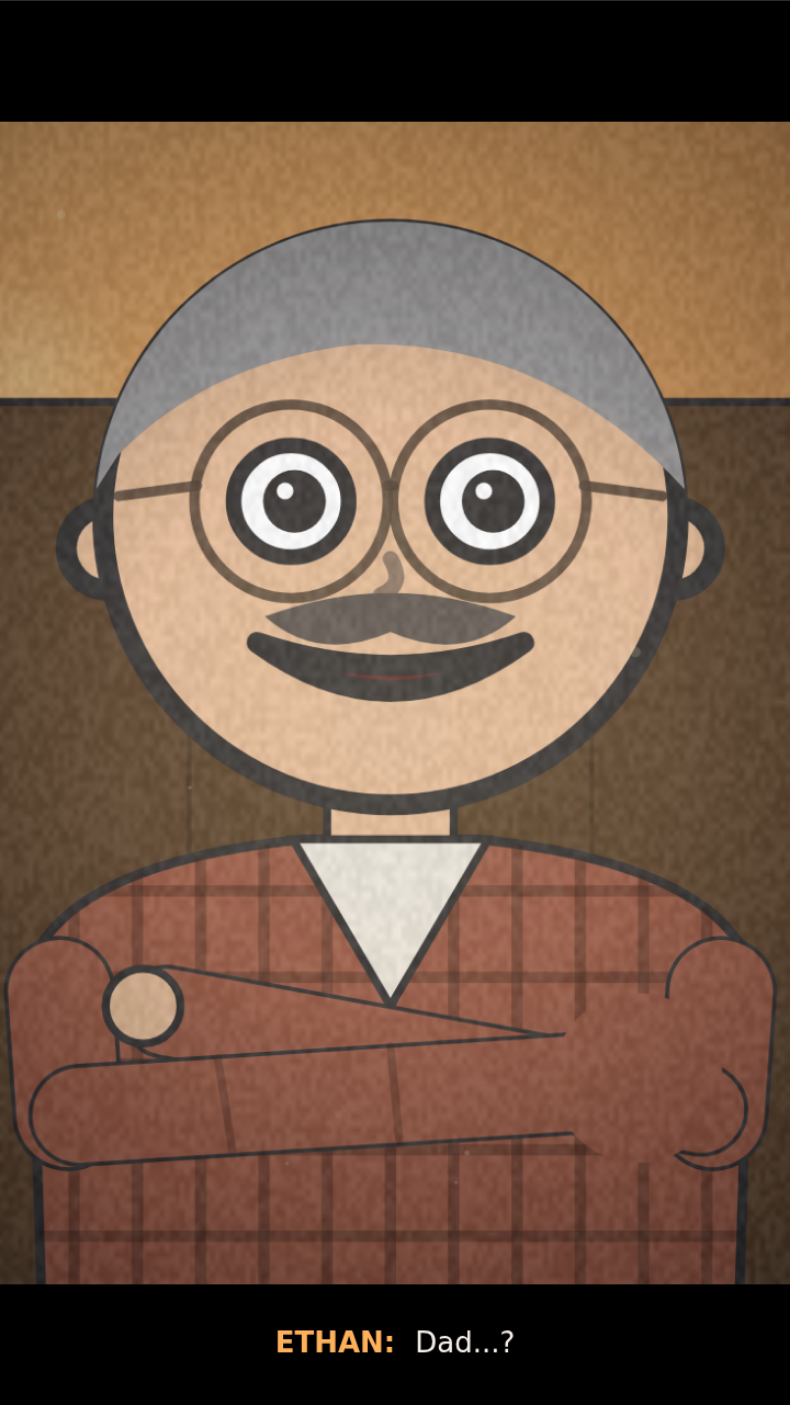
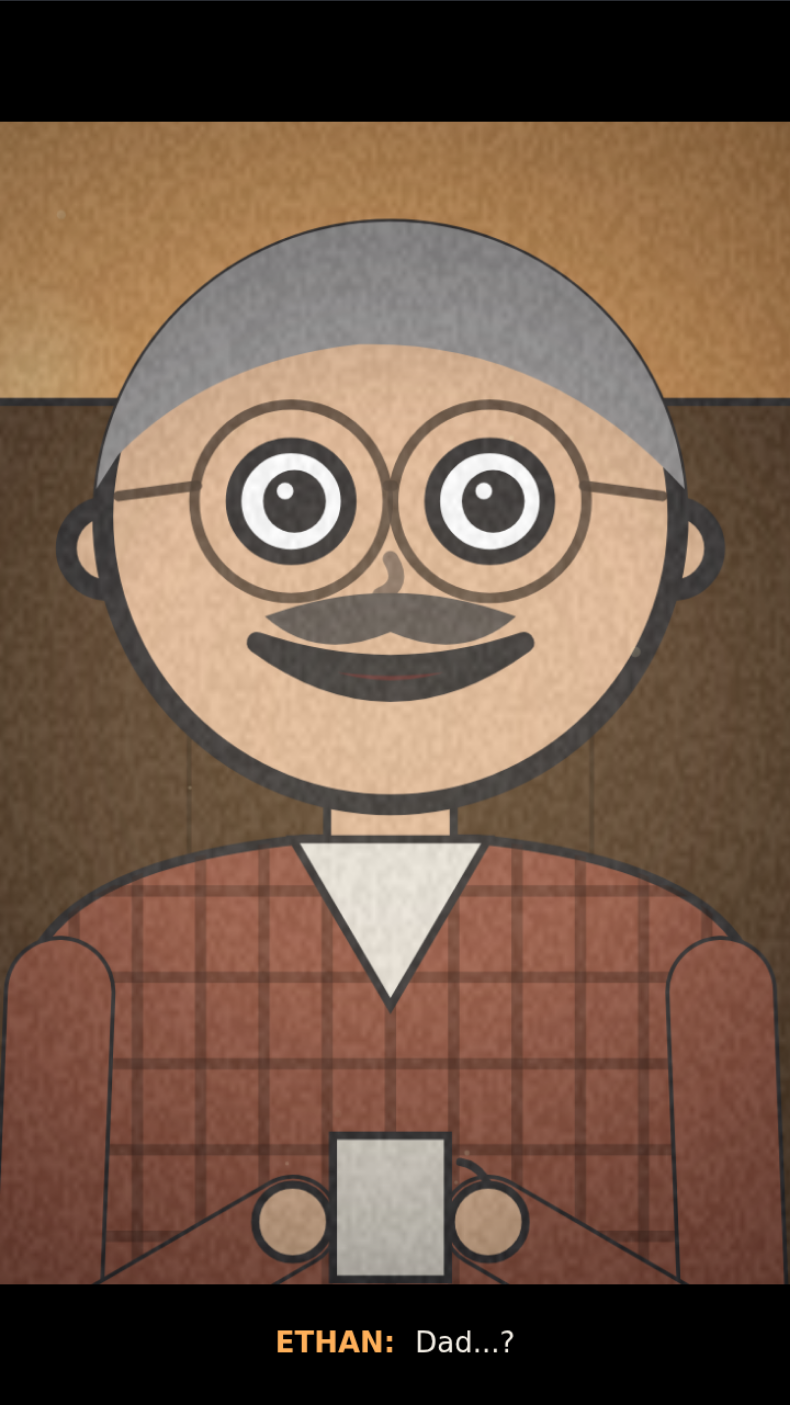
Scene 1: restore Dad's original poses from the shared version
No folded arms: arms at his sides on the porch and the original close-up
arms (holding the mug) as in the file the user shared.

Claude-Session: https://claude.ai/code/session_01TKrh3DwfzpJfkwHqgcgBCE

Changed region(s): [[0.0, 0.6733, 1.0, 0.9181]]

diff --git a/false-awakening-scene1-short.html b/false-awakening-scene1-short.html
@@ -156,11 +156,10 @@ function person(x,gy,k,o){
   const sh=[neck[0],neck[1]+16*k],shl=[sh[0]-19*k,sh[1]],shr=[sh[0]+19*k,sh[1]];
   const sw=o.run?.95:.6,a=Math.sin(ph);
   const armA=(S,sd,front)=>{
-    if(o.pose==='fold'){limbH(S,sd*.42,46*k,-sd*1.75,40*k,dir,16*k,14*k,o.top,'hand',k,sk)}
-    else if(o.pose==='stir'){const s2=Math.sin(o.st||0)*.12;limbH(S,sd*.5,40*k,sd*.5+1.0+s2,38*k,dir,16*k,14*k,o.top,'hand',k,sk)}
+    if(o.pose==='stir'){const s2=Math.sin(o.st||0)*.12;limbH(S,sd*.5,40*k,sd*.5+1.0+s2,38*k,dir,16*k,14*k,o.top,'hand',k,sk)}
     else if(o.moving){const q=a*(o.run?1.1:.7)*sd;limbH(S,q,46*k,q+(o.run?1.3:.5),44*k,dir,16*k,14*k,o.top,'hand',k,sk)}
     else limbH(S,sd*.12,46*k,sd*.08,44*k,dir,16*k,14*k,o.top,'hand',k,sk)};
-  armA(shl,-1);if(o.pose==='fold')armA(shr,1);
+  armA(shl,-1);
   if(o.skirt){
     ctx.beginPath();ctx.moveTo(hip[0]-24*k,hip[1]-8*k);ctx.lineTo(hip[0]+24*k,hip[1]-8*k);ctx.lineTo(hip[0]+44*k,gy-8*k);ctx.lineTo(hip[0]-44*k,gy-8*k);ctx.closePath();
     ctx.fillStyle=o.bottom;ctx.fill();ctx.strokeStyle=INK;ctx.lineWidth=4;ctx.stroke();
@@ -177,7 +176,7 @@ function person(x,gy,k,o){
   ctx.quadraticCurveTo(shl[0]-8*k,(sh[1]+hip[1])/2,shl[0]-6*k,sh[1]-6*k);ctx.closePath();
   ctx.fillStyle=o.top;ctx.fill();ctx.strokeStyle=INK;ctx.lineWidth=4;ctx.stroke();
   if(o.skirt&&o.back){ctx.fillStyle=o.bottom;ctx.beginPath();ctx.moveTo(shl[0]-6*k,sh[1]-4*k);ctx.lineTo(shl[0]+14*k,sh[1]-4*k);ctx.lineTo(hip[0]+26*k,hem+8*k);ctx.lineTo(hip[0]+4*k,hem+8*k);ctx.closePath();ctx.fill();ctx.stroke()}
-  if(o.pose!=='fold')armA(shr,1);
+  armA(shr,1);
   cap([neck[0],neck[1]-4*k],[neck[0],sh[1]],15*k,sk);
   if(o.back)headBack(neck[0],neck[1]-R-2,R,o.c);
   else faceAt(neck[0],neck[1]-R-2,R,o.expr||EN,o.look||[dir*.6,0],o.blink==null?1:o.blink,o.c);
@@ -268,7 +267,7 @@ function veranda(tt){
   ctx.fillStyle='#3a2616';ctx.fillRect(470,520,150,14);ctx.fillRect(530,534,10,70);
   [500,585].forEach(x=>{ctx.fillStyle='#e9d9b8';ctx.fillRect(x-14,490,28,30);ctx.fillStyle='rgba(255,255,255,.35)';for(let i=0;i<4;i++){ctx.beginPath();ctx.arc(x+Math.sin(tt*1.5+i)*5,482-i*14-(tt*10%14),6,0,7);ctx.fill()}});
   /* dad standing, back to us, facing the sunset (away from Ethan) */
-  person(900,600,1.0,{c:DAD,top:'#8f4a3a',bottom:'#3a4250',back:1,dir:1,pose:'fold'});
+  person(900,600,1.0,{c:DAD,top:'#8f4a3a',bottom:'#3a4250',back:1,dir:1});
   ctx.restore();
   /* Ethan's shoulder in the foreground, soft */
   withBlur(6,()=>{ctx.fillStyle='#20161a';ctx.beginPath();ctx.moveTo(-40,H);ctx.lineTo(-40,420);ctx.quadraticCurveTo(160,380,330,520);ctx.lineTo(380,H);ctx.closePath();ctx.fill()});
@@ -290,16 +289,13 @@ function dadClose(tt){
   ctx.save();ctx.clip();ctx.strokeStyle='rgba(30,10,10,.35)';ctx.lineWidth=7;for(let i=-6;i<=6;i++){ctx.beginPath();ctx.moveTo(fx+i*R*.22,sy-R*.3);ctx.lineTo(fx+i*R*.22,H+80);ctx.stroke()}for(let i=0;i<8;i++){ctx.beginPath();ctx.moveTo(fx-R*1.4,sy+i*R*.3);ctx.lineTo(fx+R*1.4,sy+i*R*.3);ctx.stroke()}ctx.restore();
   ctx.fillStyle=SK_D;ctx.fillRect(fx-R*.22,fy+R*.8,R*.44,R*.5);ctx.strokeStyle=INK;ctx.lineWidth=5;ctx.strokeRect(fx-R*.22,fy+R*.8,R*.44,R*.5);
   ctx.fillStyle='#e8e2d6';ctx.beginPath();ctx.moveTo(fx-R*.34,sy-R*.18);ctx.lineTo(fx,sy+R*.4);ctx.lineTo(fx+R*.34,sy-R*.18);ctx.closePath();ctx.fill();ctx.stroke();
-  /* arms folded across his chest */
-  const ay=sy+R*.78;
-  cap([fx-R*1.15,sy+R*.35],[fx-R*1.12,ay],R*.36,FL2);cap([fx+R*1.15,sy+R*.35],[fx+R*1.12,ay],R*.36,FL2);
-  /* back forearm (right elbow to left side), hand tucked by the left arm */
-  cap([fx+R*1.08,ay-R*.02],[fx-R*.78,ay-R*.36],R*.3,FL2);
-  ctx.fillStyle=SK_D;ctx.strokeStyle=INK;ctx.lineWidth=5;ctx.beginPath();ctx.arc(fx-R*.86,ay-R*.38,R*.13,0,7);ctx.fill();ctx.stroke();
-  /* front forearm (left elbow to right side) */
-  cap([fx-R*1.08,ay],[fx+R*.78,ay-R*.12],R*.33,FL2);
-  ctx.save();ctx.strokeStyle='rgba(30,10,10,.3)';ctx.lineWidth=5;ctx.beginPath();ctx.moveTo(fx-R*.6,ay-R*.2);ctx.lineTo(fx-R*.55,ay+R*.12);ctx.moveTo(fx,ay-R*.24);ctx.lineTo(fx+R*.03,ay+R*.08);ctx.stroke();ctx.restore();
-  ctx.fillStyle=SK_D;ctx.beginPath();ctx.arc(fx+R*.86,ay-R*.13,R*.13,0,7);ctx.fill();ctx.stroke();
+  /* arms holding a coffee mug */
+  const hy=sy+R*1.15;
+  cap([fx-R*1.15,sy+R*.35],[fx-R*1.2,hy+R*.5],R*.36,FL2);cap([fx+R*1.15,sy+R*.35],[fx+R*1.2,hy+R*.5],R*.36,FL2);
+  cap([fx-R*1.2,hy+R*.5],[fx-R*.34,hy],R*.3,FL2);cap([fx+R*1.2,hy+R*.5],[fx+R*.34,hy],R*.3,FL2);
+  ctx.fillStyle='#e8e2d6';ctx.strokeStyle=INK;ctx.lineWidth=5;ctx.fillRect(fx-R*.2,hy-R*.3,R*.4,R*.5);ctx.strokeRect(fx-R*.2,hy-R*.3,R*.4,R*.5);
+  ctx.beginPath();ctx.arc(fx+R*.22,hy-R*.08,R*.13,-1.4,1.4);ctx.stroke();
+  ctx.fillStyle=SK_D;[[-.34],[.34]].forEach(p=>{ctx.beginPath();ctx.arc(fx+p[0]*R,hy,R*.13,0,7);ctx.fill();ctx.stroke()});
   const e=tt<24.2?EWARM:mixE(EWARM,EFADE,sm(24.2,26.4,tt));
   const blink=(tt%3.6<.14)?.1:1;
   const ghost=sm(26.4,28.2,tt);

diff --git a/false-awakening-scene1.html b/false-awakening-scene1.html
@@ -155,11 +155,10 @@ function person(x,gy,k,o){
   const sh=[neck[0],neck[1]+16*k],shl=[sh[0]-19*k,sh[1]],shr=[sh[0]+19*k,sh[1]];
   const sw=o.run?.95:.6,a=Math.sin(ph);
   const armA=(S,sd,front)=>{
-    if(o.pose==='fold'){limbH(S,sd*.42,46*k,-sd*1.75,40*k,dir,16*k,14*k,o.top,'hand',k,sk)}
-    else if(o.pose==='stir'){const s2=Math.sin(o.st||0)*.12;limbH(S,sd*.5,40*k,sd*.5+1.0+s2,38*k,dir,16*k,14*k,o.top,'hand',k,sk)}
+    if(o.pose==='stir'){const s2=Math.sin(o.st||0)*.12;limbH(S,sd*.5,40*k,sd*.5+1.0+s2,38*k,dir,16*k,14*k,o.top,'hand',k,sk)}
     else if(o.moving){const q=a*(o.run?1.1:.7)*sd;limbH(S,q,46*k,q+(o.run?1.3:.5),44*k,dir,16*k,14*k,o.top,'hand',k,sk)}
     else limbH(S,sd*.12,46*k,sd*.08,44*k,dir,16*k,14*k,o.top,'hand',k,sk)};
-  armA(shl,-1);if(o.pose==='fold')armA(shr,1);
+  armA(shl,-1);
   if(o.skirt){
     ctx.beginPath();ctx.moveTo(hip[0]-24*k,hip[1]-8*k);ctx.lineTo(hip[0]+24*k,hip[1]-8*k);ctx.lineTo(hip[0]+44*k,gy-8*k);ctx.lineTo(hip[0]-44*k,gy-8*k);ctx.closePath();
     ctx.fillStyle=o.bottom;ctx.fill();ctx.strokeStyle=INK;ctx.lineWidth=4;ctx.stroke();
@@ -176,7 +175,7 @@ function person(x,gy,k,o){
   ctx.quadraticCurveTo(shl[0]-8*k,(sh[1]+hip[1])/2,shl[0]-6*k,sh[1]-6*k);ctx.closePath();
   ctx.fillStyle=o.top;ctx.fill();ctx.strokeStyle=INK;ctx.lineWidth=4;ctx.stroke();
   if(o.skirt&&o.back){ctx.fillStyle=o.bottom;ctx.beginPath();ctx.moveTo(shl[0]-6*k,sh[1]-4*k);ctx.lineTo(shl[0]+14*k,sh[1]-4*k);ctx.lineTo(hip[0]+26*k,hem+8*k);ctx.lineTo(hip[0]+4*k,hem+8*k);ctx.closePath();ctx.fill();ctx.stroke()}
-  if(o.pose!=='fold')armA(shr,1);
+  armA(shr,1);
   cap([neck[0],neck[1]-4*k],[neck[0],sh[1]],15*k,sk);
   if(o.back)headBack(neck[0],neck[1]-R-2,R,o.c);
   else faceAt(neck[0],neck[1]-R-2,R,o.expr||EN,o.look||[dir*.6,0],o.blink==null?1:o.blink,o.c);
@@ -267,7 +266,7 @@ function veranda(tt){
   ctx.fillStyle='#3a2616';ctx.fillRect(470,520,150,14);ctx.fillRect(530,534,10,70);
   [500,585].forEach(x=>{ctx.fillStyle='#e9d9b8';ctx.fillRect(x-14,490,28,30);ctx.fillStyle='rgba(255,255,255,.35)';for(let i=0;i<4;i++){ctx.beginPath();ctx.arc(x+Math.sin(tt*1.5+i)*5,482-i*14-(tt*10%14),6,0,7);ctx.fill()}});
   /* dad standing, back to us, facing the sunset (away from Ethan) */
-  person(900,600,1.0,{c:DAD,top:'#8f4a3a',bottom:'#3a4250',back:1,dir:1,pose:'fold'});
+  person(900,600,1.0,{c:DAD,top:'#8f4a3a',bottom:'#3a4250',back:1,dir:1});
   ctx.restore();
   /* Ethan's shoulder in the foreground, soft */
   withBlur(6,()=>{ctx.fillStyle='#20161a';ctx.beginPath();ctx.moveTo(-40,H);ctx.lineTo(-40,420);ctx.quadraticCurveTo(160,380,330,520);ctx.lineTo(380,H);ctx.closePath();ctx.fill()});
@@ -289,16 +288,13 @@ function dadClose(tt){
   ctx.save();ctx.clip();ctx.strokeStyle='rgba(30,10,10,.35)';ctx.lineWidth=7;for(let i=-6;i<=6;i++){ctx.beginPath();ctx.moveTo(fx+i*R*.22,sy-R*.3);ctx.lineTo(fx+i*R*.22,H+80);ctx.stroke()}for(let i=0;i<8;i++){ctx.beginPath();ctx.moveTo(fx-R*1.4,sy+i*R*.3);ctx.lineTo(fx+R*1.4,sy+i*R*.3);ctx.stroke()}ctx.restore();
   ctx.fillStyle=SK_D;ctx.fillRect(fx-R*.22,fy+R*.8,R*.44,R*.5);ctx.strokeStyle=INK;ctx.lineWidth=5;ctx.strokeRect(fx-R*.22,fy+R*.8,R*.44,R*.5);
   ctx.fillStyle='#e8e2d6';ctx.beginPath();ctx.moveTo(fx-R*.34,sy-R*.18);ctx.lineTo(fx,sy+R*.4);ctx.lineTo(fx+R*.34,sy-R*.18);ctx.closePath();ctx.fill();ctx.stroke();
-  /* arms folded across his chest */
-  const ay=sy+R*.78;
-  cap([fx-R*1.15,sy+R*.35],[fx-R*1.12,ay],R*.36,FL2);cap([fx+R*1.15,sy+R*.35],[fx+R*1.12,ay],R*.36,FL2);
-  /* back forearm (right elbow to left side), hand tucked by the left arm */
-  cap([fx+R*1.08,ay-R*.02],[fx-R*.78,ay-R*.36],R*.3,FL2);
-  ctx.fillStyle=SK_D;ctx.strokeStyle=INK;ctx.lineWidth=5;ctx.beginPath();ctx.arc(fx-R*.86,ay-R*.38,R*.13,0,7);ctx.fill();ctx.stroke();
-  /* front forearm (left elbow to right side) */
-  cap([fx-R*1.08,ay],[fx+R*.78,ay-R*.12],R*.33,FL2);
-  ctx.save();ctx.strokeStyle='rgba(30,10,10,.3)';ctx.lineWidth=5;ctx.beginPath();ctx.moveTo(fx-R*.6,ay-R*.2);ctx.lineTo(fx-R*.55,ay+R*.12);ctx.moveTo(fx,ay-R*.24);ctx.lineTo(fx+R*.03,ay+R*.08);ctx.stroke();ctx.restore();
-  ctx.fillStyle=SK_D;ctx.beginPath();ctx.arc(fx+R*.86,ay-R*.13,R*.13,0,7);ctx.fill();ctx.stroke();
+  /* arms holding a coffee mug */
+  const hy=sy+R*1.15;
+  cap([fx-R*1.15,sy+R*.35],[fx-R*1.2,hy+R*.5],R*.36,FL2);cap([fx+R*1.15,sy+R*.35],[fx+R*1.2,hy+R*.5],R*.36,FL2);
+  cap([fx-R*1.2,hy+R*.5],[fx-R*.34,hy],R*.3,FL2);cap([fx+R*1.2,hy+R*.5],[fx+R*.34,hy],R*.3,FL2);
+  ctx.fillStyle='#e8e2d6';ctx.strokeStyle=INK;ctx.lineWidth=5;ctx.fillRect(fx-R*.2,hy-R*.3,R*.4,R*.5);ctx.strokeRect(fx-R*.2,hy-R*.3,R*.4,R*.5);
+  ctx.beginPath();ctx.arc(fx+R*.22,hy-R*.08,R*.13,-1.4,1.4);ctx.stroke();
+  ctx.fillStyle=SK_D;[[-.34],[.34]].forEach(p=>{ctx.beginPath();ctx.arc(fx+p[0]*R,hy,R*.13,0,7);ctx.fill();ctx.stroke()});
   const e=tt<24.2?EWARM:mixE(EWARM,EFADE,sm(24.2,26.4,tt));
   const blink=(tt%3.6<.14)?.1:1;
   const ghost=sm(26.4,28.2,tt);
